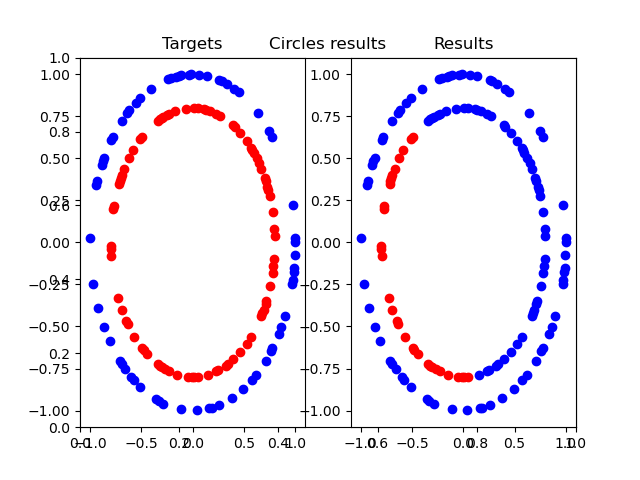
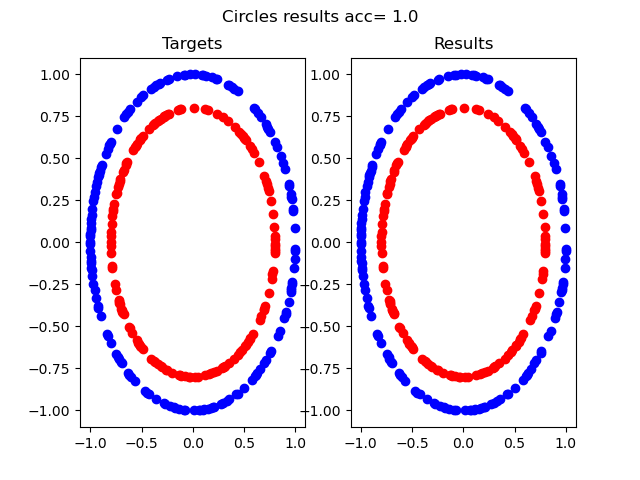
update Week3

diff --git a/Week3/NaiveBayesian.py b/Week3/NaiveBayesian.py
@@ -5,14 +5,22 @@ import matplotlib.pyplot as plt
 import numpy as np
 from sklearn.metrics import accuracy_score
 
+'''
+nb_diff():用GaussianNB和BernoulliNB两个分类器，表示不同分类器对同一个数据集(make_moons)的差异，另外两个无法处理负值故不参与比较。
+data_diff():用GaussianNB对不同数据集分类的结果。
+paint_data_diff(Tex,Tey,y,type,acc):绘制对data_diff()不同的图。
+nb_paint():对不同分类器绘图。
+'''
+
+
 gaus = GaussianNB()
 bern = BernoulliNB()
 muti = MultinomialNB()
 comp = ComplementNB()
 
-moons = make_moons(500)
-circles = make_circles(500)
-classfication = make_classification(500)
+moons = make_moons(1000)
+circles = make_circles(1000)
+classfication = make_classification(1000)
 
 
 
@@ -20,7 +28,7 @@ classfication = make_classification(500)
 
 
 def nb_diff():
-    Trx,Tex,Try,Tey = train_test_split(moons[0],moons[1],train_size=0.7)
+    Trx,Tex,Try,Tey = train_test_split(moons[0],moons[1],train_size=0.7,shuffle=True)
     nb_paint(Tex,Tey,type='Moon Target')
     #plt.title('Moon Target')
     plt.savefig('./Image/moon_test_target.png')
@@ -33,7 +41,8 @@ def nb_diff():
     bern_y = bern.predict(Tex)
     fig = plt.figure()
 
-    plt.title('Predicted Results')
+    plt.suptitle('Predicted Results')
+    plt.axis('off')
 
     ax1= fig.add_subplot(121)
     nb_paint(Tex,gaus_y,ax1,'Gaussian')
@@ -43,31 +52,44 @@ def nb_diff():
     plt.show()
 
 def data_diff():
-    Trx, Tex, Try, Tey = train_test_split(moons[0], moons[1], train_size=0.7)
+    Trx, Tex, Try, Tey = train_test_split(moons[0], moons[1], train_size=0.7,shuffle=True)
     gaus = GaussianNB()
     gaus.fit(Trx,Try)
     y=gaus.predict(Tex)
-    paint_data_diff(Tex,Tey,y,'Moons')
-    print(accuracy_score(Tey,y))
+    acc = accuracy_score(Tey,y)
+    paint_data_diff(Tex,Tey,y,'Moons',acc)
+    print(acc)
 
-    Trx, Tex, Try, Tey = train_test_split(circles[0], circles[1], train_size=0.7)
+    Trx, Tex, Try, Tey = train_test_split(circles[0], circles[1], train_size=0.7,shuffle=True)
     gaus = GaussianNB()
     gaus.fit(Trx, Try)
     y = gaus.predict(Tex)
-    paint_data_diff(Tex, Tey, y, 'Circles')
-    print(accuracy_score(Tey,y))
+    acc = accuracy_score(Tey,y)
+    paint_data_diff(Tex, Tey, y, 'Circles',acc)
+    print(acc)
 
-    Trx, Tex, Try, Tey = train_test_split(classfication[0], classfication[1], train_size=0.7)
+    Trx, Tex, Try, Tey = train_test_split(classfication[0], classfication[1], train_size=0.7,shuffle=True)
     gaus = GaussianNB()
     gaus.fit(Trx, Try)
     y = gaus.predict(Tex)
-    paint_data_diff(Tex, Tey, y, 'Classfication')
-    print(accuracy_score(Tey,y))
+    acc = accuracy_score(Tey,y)
+    paint_data_diff(Tex, Tey, y, 'Classfication',acc)
+    print(acc)
 
-def paint_data_diff(Tex,Tey,y,type):
+def paint_data_diff(Tex,Tey,y,type,acc):
+    '''
+
+    :param Tex: 测试集数据
+    :param Tey: 测试集标签
+    :param y: 预测的标签结果
+    :param type: 数据集类型，用以输出图像title
+    :param acc: 准确率，用以输出图像title
+    :return: 无
+    '''
     fig = plt.figure()
 
-    plt.title(type+' results')
+    plt.suptitle(type+' results'+' acc= '+str(round(acc,2)))
+    plt.axis('off')
 
     ax1= fig.add_subplot(121)
     nb_paint(Tex,Tey,ax1,'Targets')
@@ -77,6 +99,14 @@ def paint_data_diff(Tex,Tey,y,type):
     plt.show()
 
 def nb_paint(Tex,Tey,ax=None,type='gaus'):
+    '''
+
+    :param Tex: 测试集数据
+    :param Tey: 测试集标签
+    :param ax: 子图的画布
+    :param type: 数据集类型，用以输出图像标题
+    :return: 无
+    '''
     zero_type= Tex[np.argwhere(Tey==0)].T
     one_type = Tex[np.argwhere(Tey==1)].T
     if not (ax==None):
@@ -89,5 +119,5 @@ def nb_paint(Tex,Tey,ax=None,type='gaus'):
         plt.scatter(one_type[0],one_type[1],c='red')
         plt.title(type)
 
-
+nb_diff()
 data_diff()

diff --git a/Week3/README.md b/Week3/README.md
@@ -1,3 +1,23 @@
 # README
 
 真没啥好讲的……
+
+有一半都是不用代码的，都不用代码了我当然不放在这里呀（确信）
+
+
+## 题目
+机器学习初识：学习sklearn中的朴素贝叶斯
+
+Sklearn为我们提供了这几种朴素贝叶斯的分类器：
+
+naive_bayes.GaussianNB
+
+naive_bayes.BernoulliNB
+
+naive_bayes.MultinomialNB
+
+naive_bayes.ComplementNB
+
+1、说明每种分类器的含义以及区别
+
+2、利用sklearning自带的数据集：(from sklearn.datasets import make_moons, make_circles, make_classification), 自行划分训练集和测试集(无需验证集)，使用第一种分类器(naive_bayes.GaussianNB)，并且可视化结果，说明在不同数据类型下分类器效果的差别。
